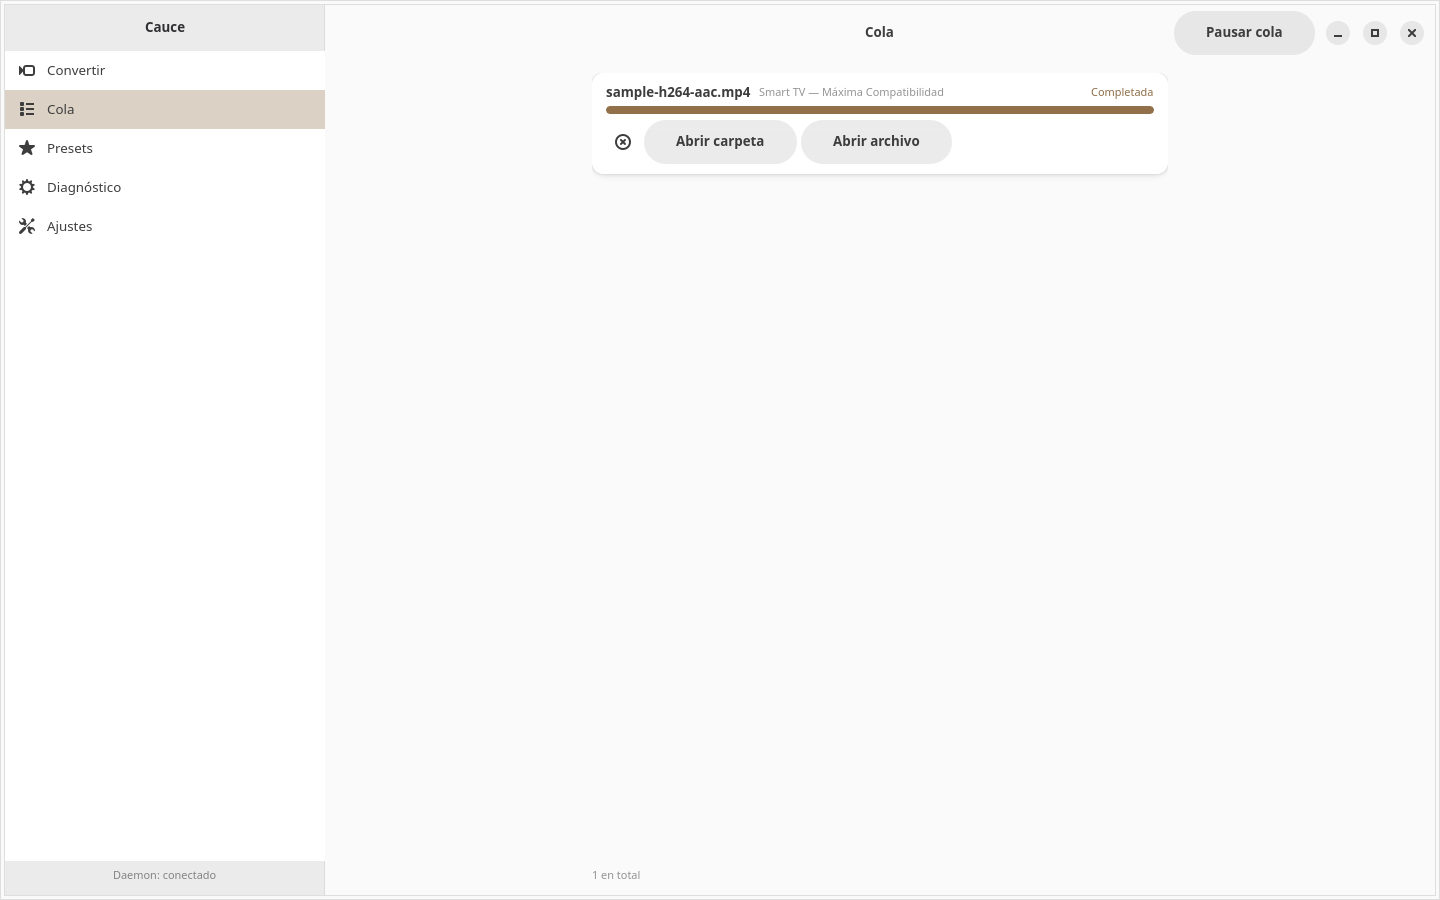
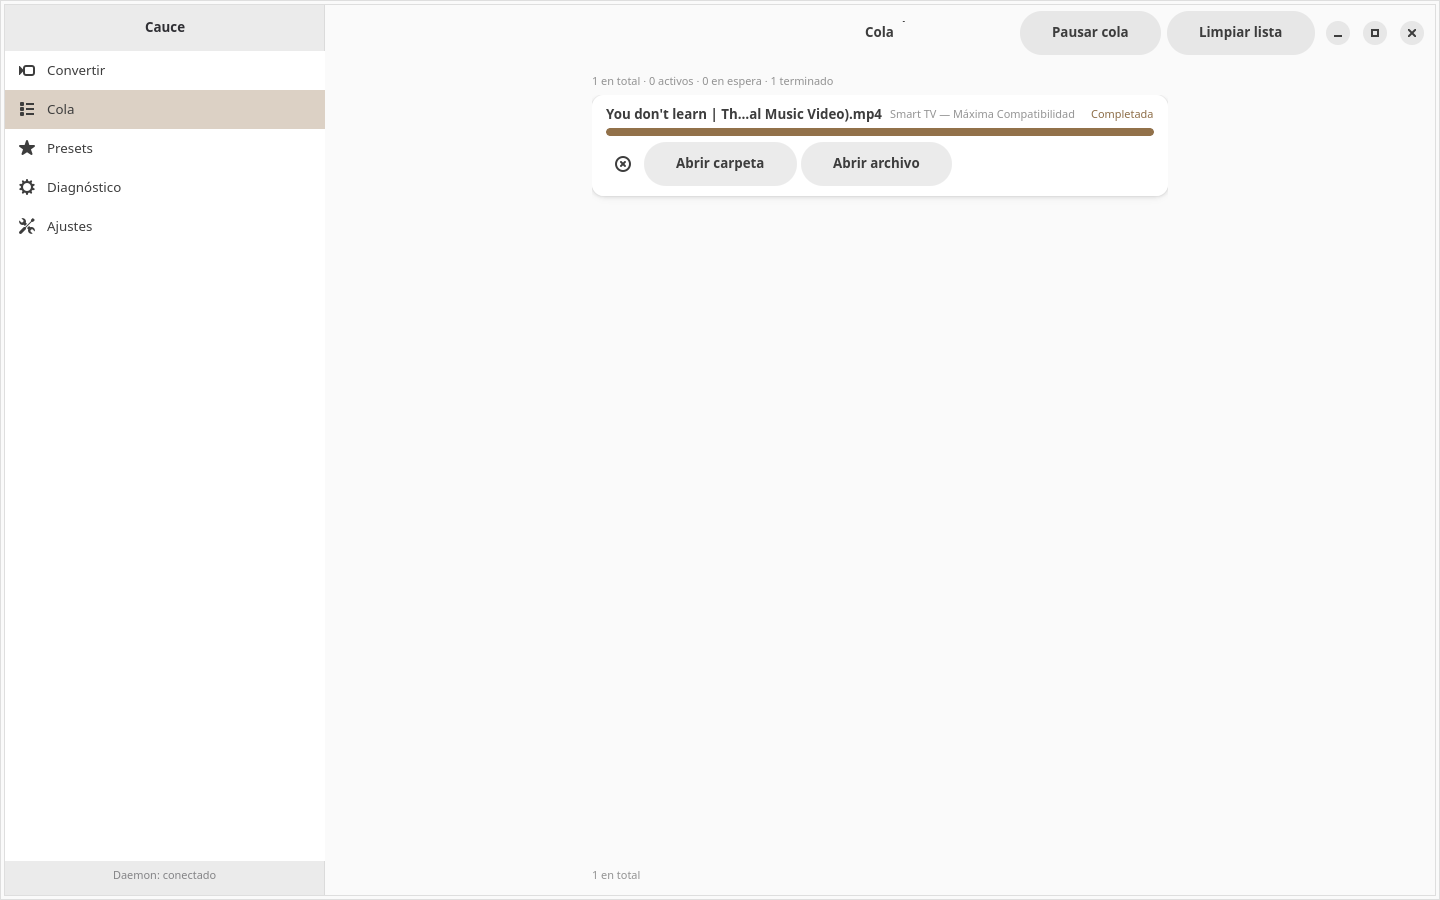
docs(qa): capture the selection header and the queue summary

Changed region(s): [[0.4062, 0.0933, 0.8125, 0.1867], [0.7188, 0.0311, 0.7812, 0.0622], [0.8438, 0.0311, 0.875, 0.0622]]

diff --git a/odd/tasks/cauce-0.1.md b/odd/tasks/cauce-0.1.md
@@ -782,3 +782,9 @@ Copiados de `architecture.md` §19 y `ui-mvp.md` §170-179; se marcan solo con e
 - **Daemon**: método real **`jobs.clear_finished`** (`{}` → `{removed: N}`), un solo transacción en el store que borra completed/failed/cancelled/interrupted con sus eventos y reservas, un único `queue.updated`. `contracts.md` §6 actualizado. Nada de bucles de `jobs.remove` desde la GUI.
 - **Pluralización** ES/EN/PT-BR en 8 pares de claves.
 - Suite **309/309**, `fmt` y `clippy -D warnings` limpios. RED por área: `no method named clear_finished`, `método desconocido jobs.clear_finished`, `no method named summary_line`, `no method named notice`.
+
+**L59 (capturas de la selección y de la cola) — verificadas:**
+- **`02-cola.png` verificada**: resumen visible "1 en total · 0 activos · 0 en espera · **1 terminado**" (singular correcto), botones **Pausar cola** y **Limpiar lista** en la cabecera, trabajo "Completada" con barra llena y Abrir carpeta/archivo.
+- **`01-convertir.png`** y **`06-convertir-960.png`** recapturadas con el encabezado de selección nuevo.
+- **Pendiente documentado**: la captura con **2-3 archivos seleccionados** requiere el `GtkFileDialog`, que no se automatiza en Xvfb; no se simula. Queda cubierto por los tests de conteo, quitar uno, quitar todos y CTA deshabilitada.
+- **Paquete**: `sha256 c169a8c52fd88c8278b62f3369a8305e71660e1c79265f9f5ead47900db98cfc`, instalado (`0.1.0-1`) con `cauce.socket` **active**.

diff --git a/docs/release-notes-0.1.0.md b/docs/release-notes-0.1.0.md
@@ -108,4 +108,8 @@ Two non-fixture AV1 + Opus 1280×720 videos were converted through the **install
 
 Both jobs finished `completed`; the GUI showed "Daemon: conectado" against the real `XDG_RUNTIME_DIR` with both rows marked "Completada". `cauce.socket` was active with `NRestarts=0` after the socket-activation fix.
 
[2 lines of base64/hex data omitted]
+
+## Selection clarity and queue cleanup
+
+Convert now states the selection ("Seleccionado (1)"/"Seleccionados (N)", total size, per-file remove, remove all) and names how many files go to the queue together with the preset and output folder. The queue shows total/active/waiting/finished and a "Limpiar lista" action backed by the real `jobs.clear_finished` method, which removes only terminal jobs in one transaction.
